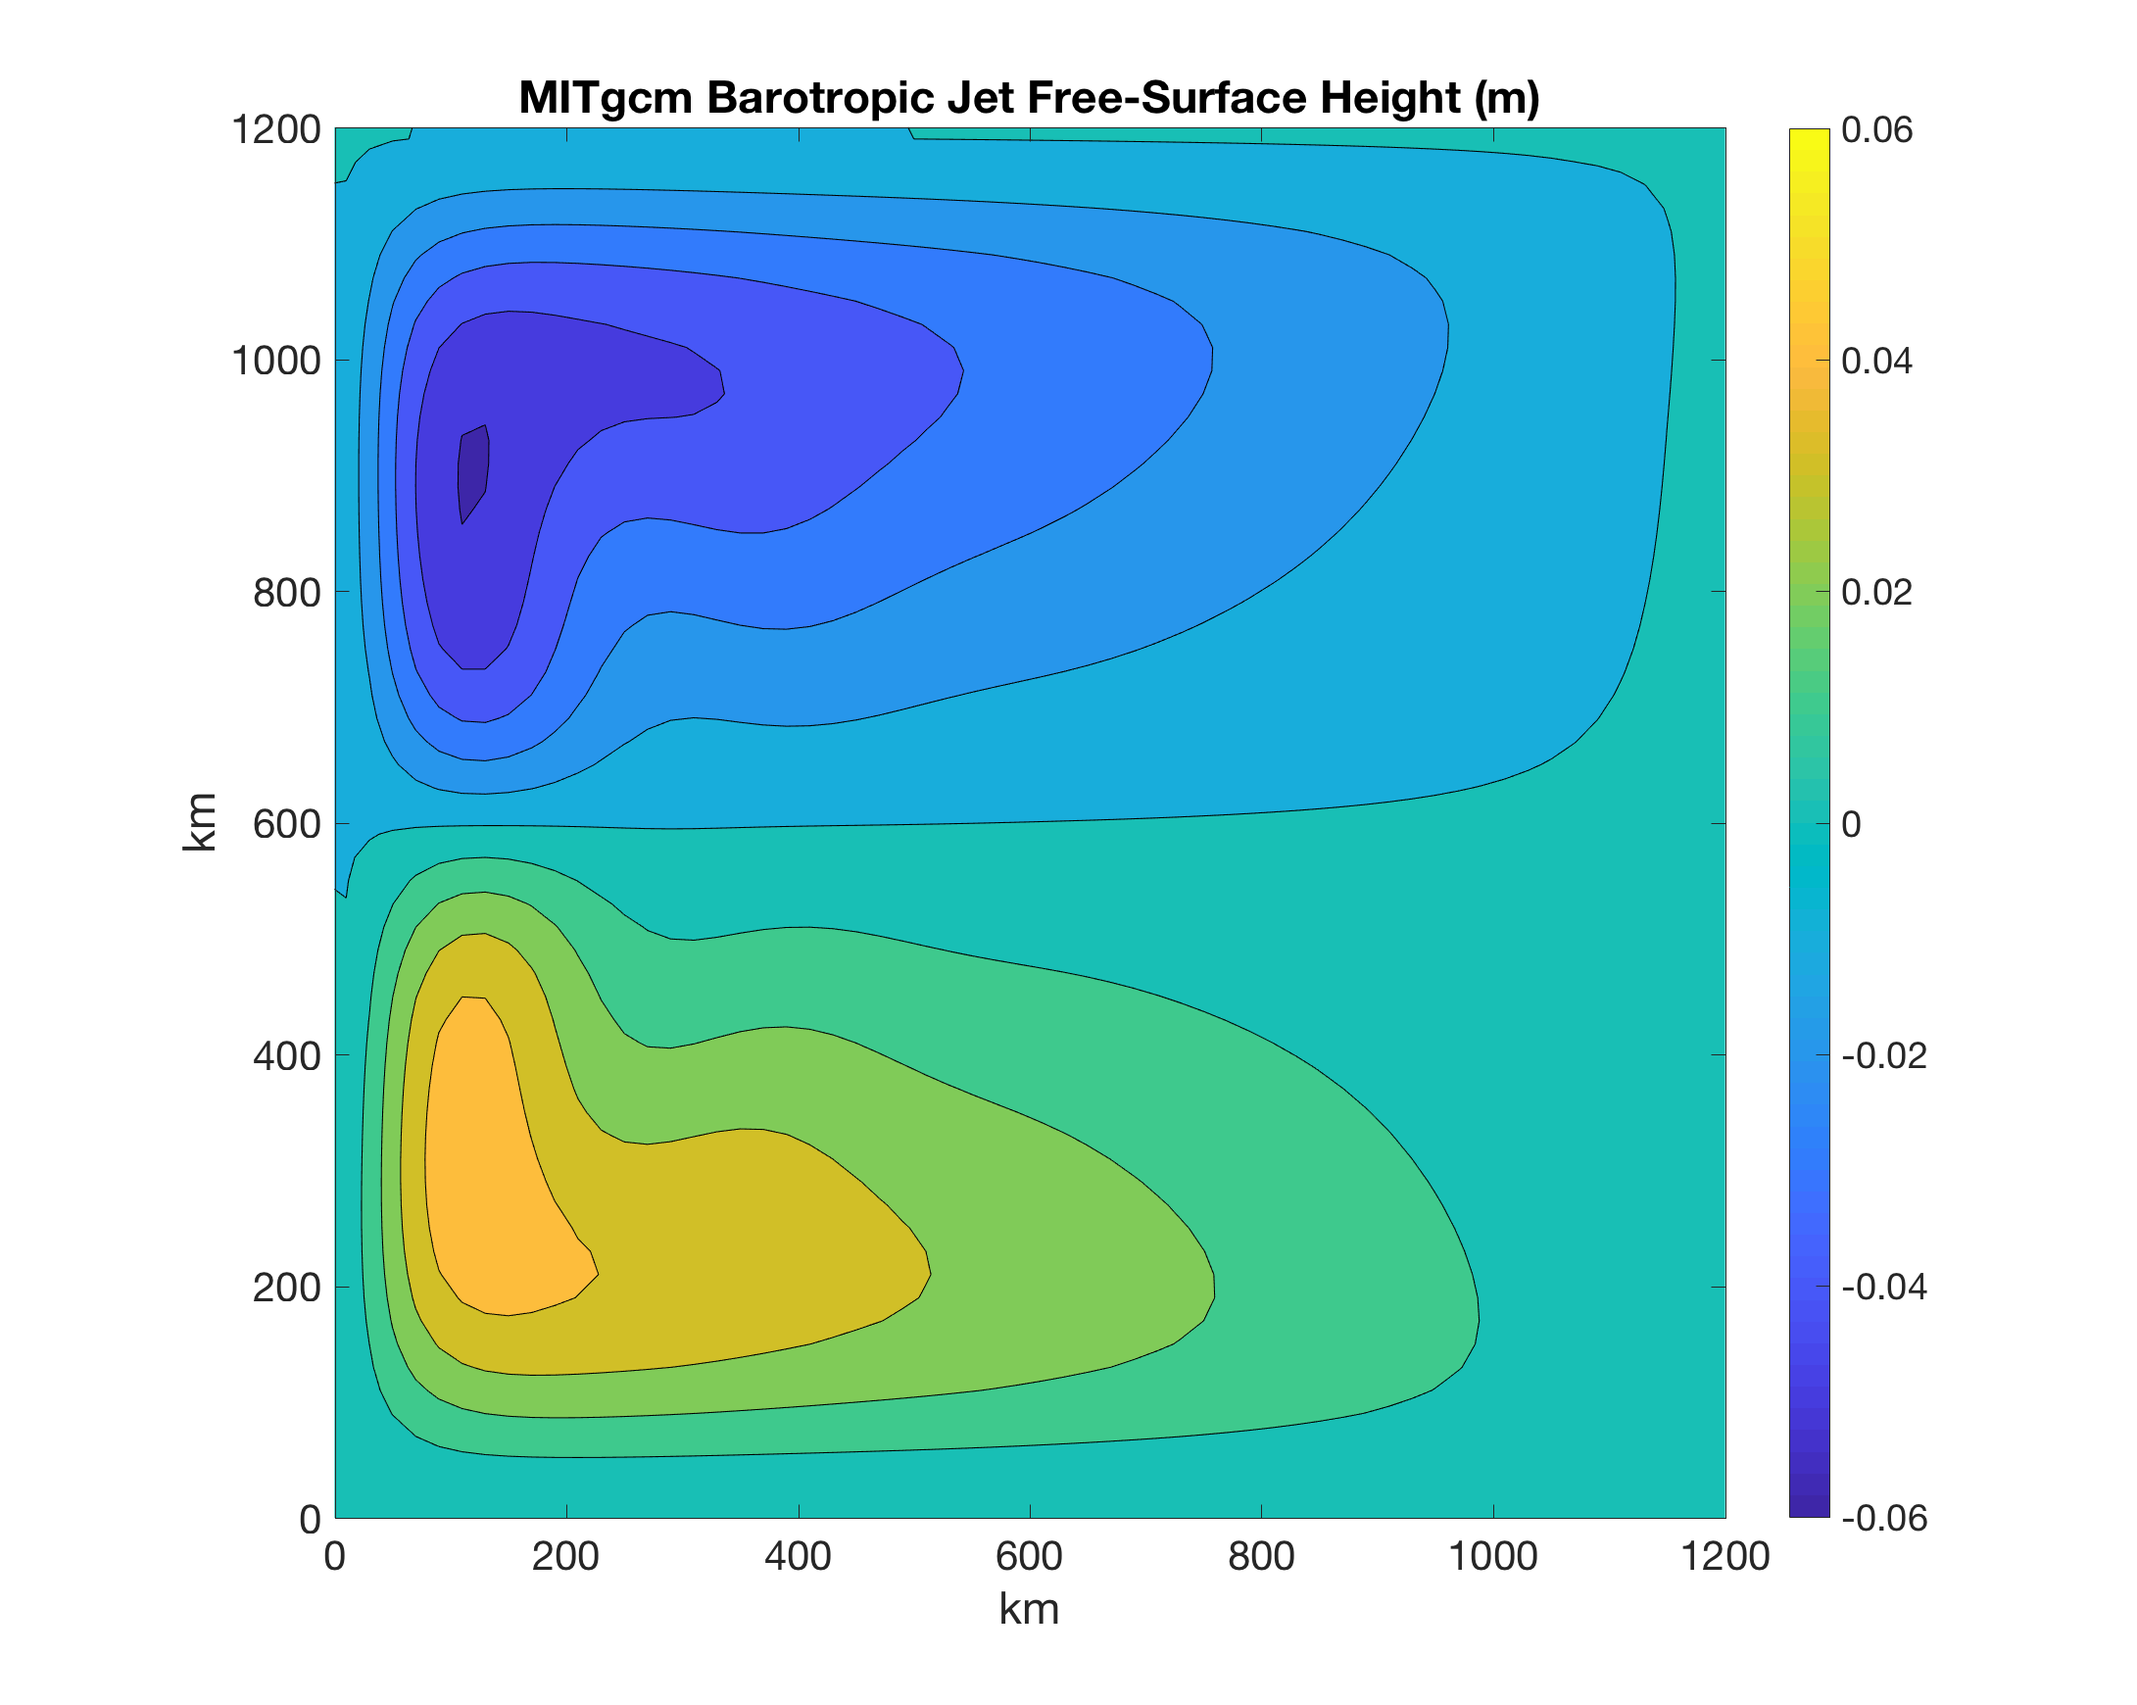
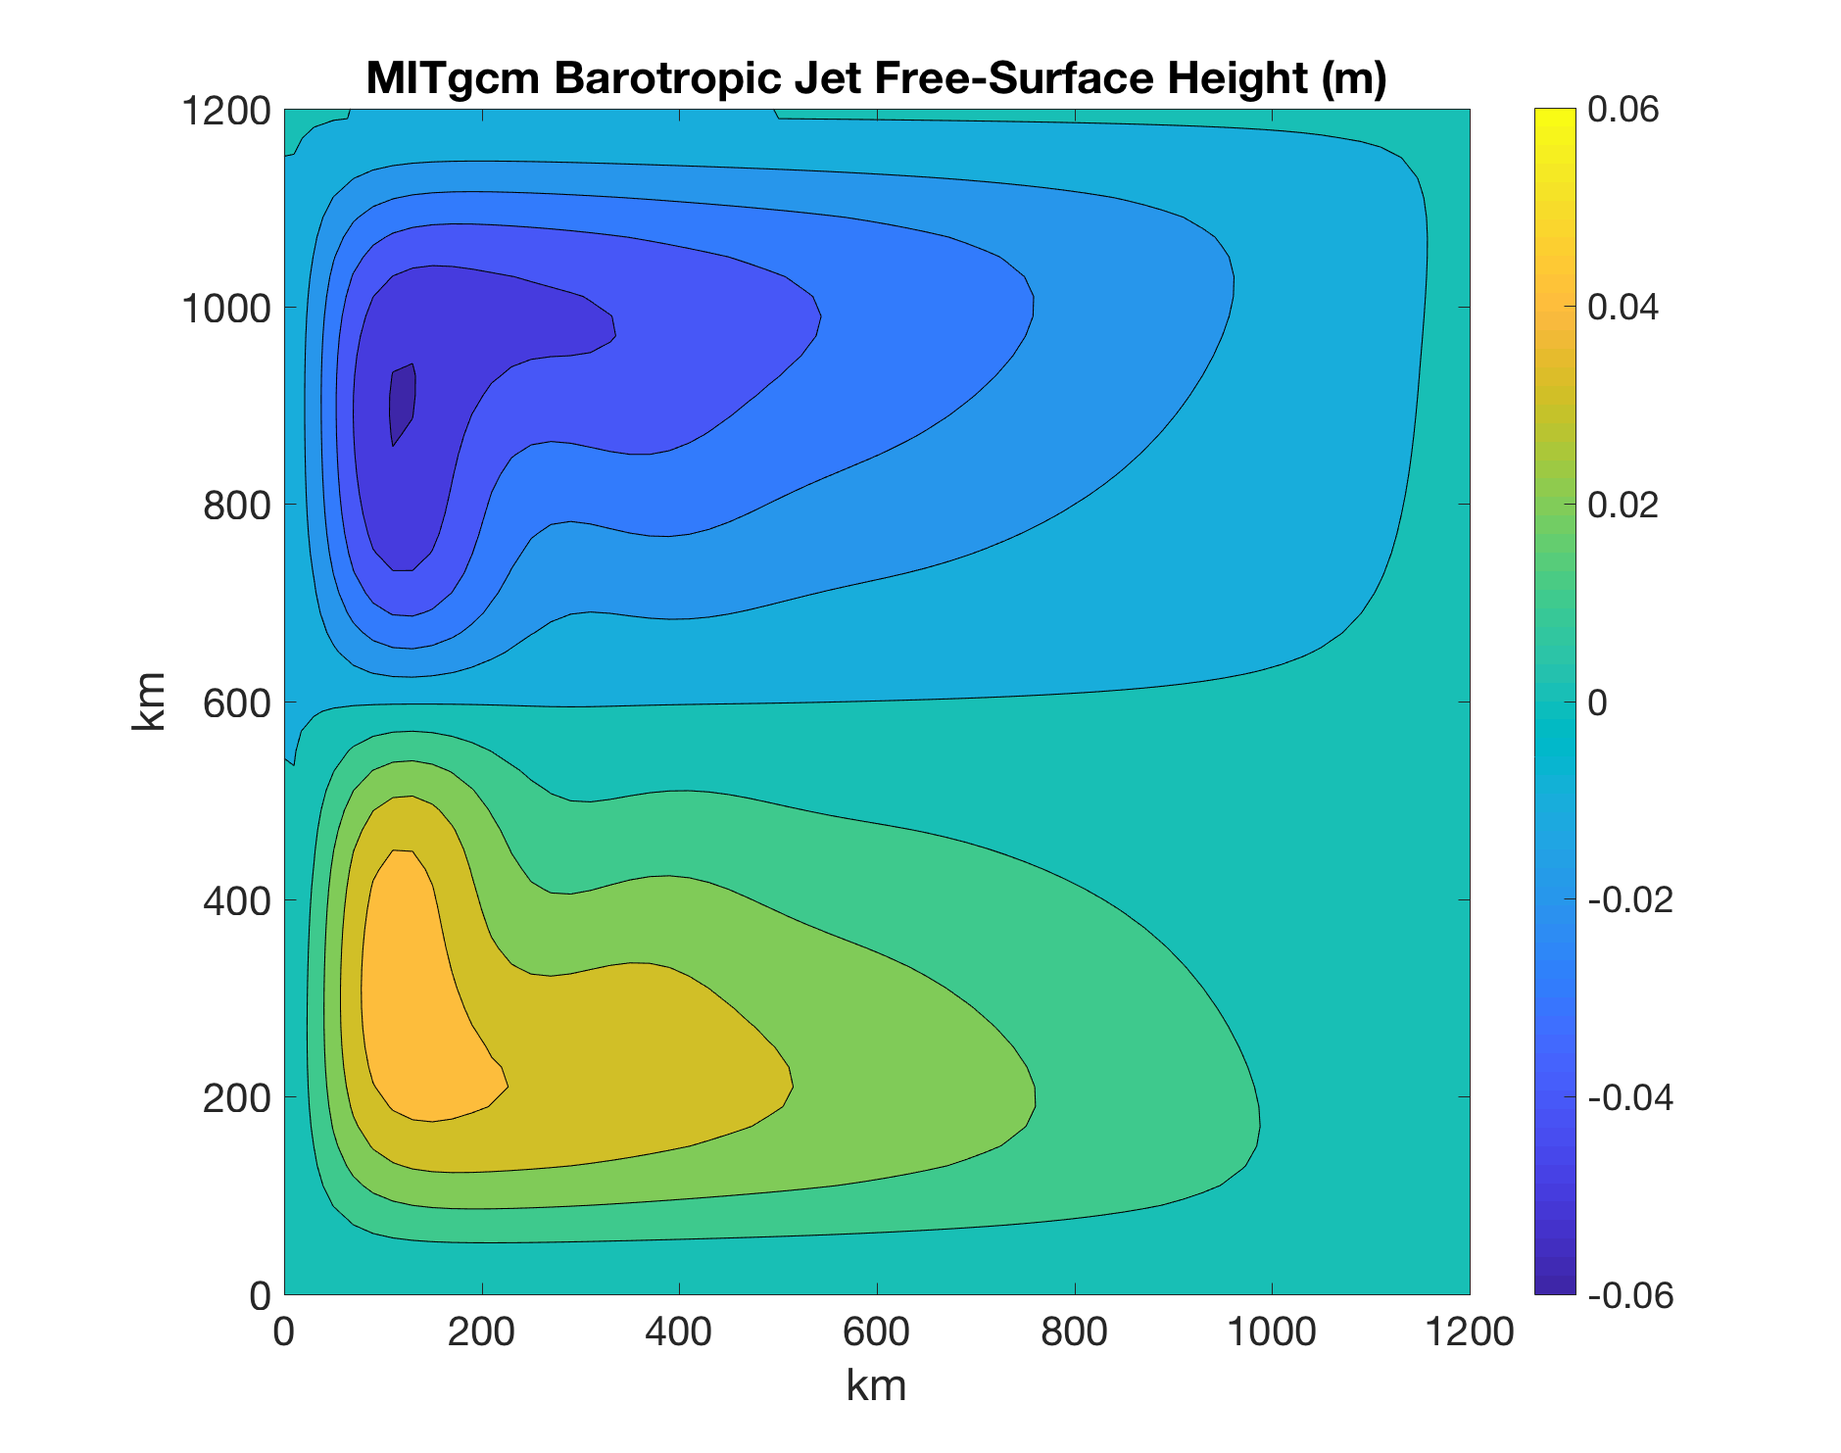
changes from @jm-c; change run length; misc. edits

diff --git a/doc/examples/examples.rst b/doc/examples/examples.rst
@@ -285,12 +285,12 @@ PARM01 - Continuous equation parameters
        :end-at: beta
        :lineno-match:
 
-- This line sets parameter :varlink:`rhonil`, a reference density which will also be used
+- This line sets parameter :varlink:`rhoNil`, a reference density which will also be used
   as :math:`rho_c` (parameter :varlink:`rhoConst`) in :eq:`baro_model_eq_u`, to 1000 kg/m\ :sup:`3`.
 
   .. literalinclude:: ../../verification/tutorial_barotropic_gyre/input/data
-       :start-at: rhonil
-       :end-at: rhonil
+       :start-at: rhoNil
+       :end-at: rhoNil
        :lineno-match:
 
 - This line sets parameter :varlink:`gBaro`, the acceleration due to gravity :math:`g` (in the free surface terms
@@ -369,17 +369,17 @@ PARM03 - Time stepping parameters
        :lineno-match:
 
 - This line sets parameter :varlink:`nTimeSteps`, the (integer) number of timesteps the model will integrate forward. Below,
-  we have set this to integrate for just 10 time steps, for MITgcm automated testing purposes (ref to testreport). To integrate the solution to near steady state,
-  uncomment the line where we set the value to 60,000 time steps. When you make this change, be sure to comment out the line that sets :varlink:`monitorFreq` (see below).
+  we have set this to integrate for just 10 time steps, for MITgcm automated testing purposes (:numref:`code_testing_protocols`). To integrate the solution to near steady state,
+  uncomment the line a few lines further down where we set the value to 77760 time steps. When you make this change, be sure to comment out the line that sets :varlink:`monitorFreq` (see below).
 
   .. literalinclude:: ../../verification/tutorial_barotropic_gyre/input/data
        :start-at: nTimeSteps=10
-       :end-at: nTimeSteps=60
+       :end-at: nTimeSteps=10
        :lineno-match:
 
 - This line sets parameter :varlink:`deltaT`, the timestep used in stepping forward the model, to 1200 seconds.
   In combination with the larger value of :varlink:`nTimeSteps` above,
-  we have effectively set the model to integrate forward for :math:`60000 \times 1200 \text{ s} = 2.28` years, long enough for the solution to approach equilibrium.
+  we have effectively set the model to integrate forward for :math:`77760  \times 1200 \text{ s} = 3.0` years (based on 360-day years), long enough for the solution to approach equilibrium.
 
   .. literalinclude:: ../../verification/tutorial_barotropic_gyre/input/data
        :start-at: deltaT
@@ -387,14 +387,14 @@ PARM03 - Time stepping parameters
        :lineno-match:
 
 - These lines control the frequency at which restart (a.k.a. pickup) files are dumped by MITgcm.
-  Here the value of :varlink:`pChkptFreq` is set to 36,000,000 seconds (=1.14 years) of model time;
+  Here the value of :varlink:`pChkptFreq` is set to 31,536,000 seconds (=1.0 years) of model time;
   this controls the frequency of “permanent” checkpoint pickup files. With permanent files,
   the model’s iteration number is part of the file name (as the filename “suffix”; see :numref:`other_output`)
   in order to save it as a labelled, permanent, pickup state.
-  The value of :varlink:`ChkptFreq` is set to 12,000,000 seconds (=0.38 years); the pickup files
+  The value of :varlink:`ChkptFreq` is set to 15,552,000 seconds (=0.5 years); the pickup files
   written at this frequency but will NOT include the iteration number in the filename,
   instead toggling between ``ckptA`` and ``ckptB`` in the filename, and thus these
-  files will be overwritten with new data every 2 :math:`\times` 12,000,000 seconds.
+  files will be overwritten with new data every 2 :math:`\times` 15,552,000 seconds.
   Temporary checkpoint files can be written more frequently without requiring additional disk space,
   for example to peruse (or re-run) the model state prior to an instability,
   or restart following a computer crash, etc.
@@ -407,20 +407,21 @@ PARM03 - Time stepping parameters
 
 - This line sets parameter :varlink:`dumpFreq`, frequency of writing model state
   snapshot diagnostics (of relevance in this setup: variables :math:`u`, :math:`v`, and :math:`\eta`).
-  Here, we opt for a snapshot of model state every 24,000,000 seconds (=0.76 years), or after every 20000 time steps of integration.
+  Here, we opt for a snapshot of model state every 15,552,000 seconds (=0.5 years), or after every 12960 time steps of integration.
 
   .. literalinclude:: ../../verification/tutorial_barotropic_gyre/input/data
        :start-at: dumpFreq
        :end-at: dumpFreq
        :lineno-match:
 
-- This line is set to dump monitor output (see ref to pkg monitor) every 1200 seconds (i.e., every time step) to standard output.
-  While this is monitor frequency is needed for MITgcm automated testing, this is much too much output for our tutorial run. Comment out this line, and monitor output
-  will default to the same frequency as :varlink:`dumpFreq`.
+- These lines are set to dump monitor output (see :numref:`pkg_monitor`) every 1200 seconds (i.e., every time step) to standard output. 
+  While this is monitor frequency is needed for MITgcm automated testing, this is much too much output for our tutorial run. Comment out this line
+  and uncomment the line where :varlink:`monitorFreq` is set to 864,000 seconds, i.e., output every 10 days.
+  Parameter :varlink:`monitorSelect` is set to 2 here to reduce output of non-applicable quantities for this simple example. 
 
   .. literalinclude:: ../../verification/tutorial_barotropic_gyre/input/data
        :start-at: monitorFreq
-       :end-at: monitorFreq
+       :end-at: monitorSelect
        :lineno-match:
 
 
@@ -527,17 +528,18 @@ was used to generate this bathymetry file.
 
 .. _baro_gyre_windx_cosy:
 
-Files ``input/windx_cosy.bin`` and ``input/windx_siny.bin``
-~~~~~~~~~~~~~~~~~~~~~~~~~~~~~~~~~~~~~~~~~~~~~~~~~~~~~~~~~~~
+File ``input/windx_cosy.bin``
+~~~~~~~~~~~~~~~~~~~~~~~~~~~~~
 
-Similar to file ``input/bathy.bin``, these files are 2D(:math:`x,y`)
+Similar to file ``input/bathy.bin``, this files is a 2D(:math:`x,y`)
 map of :math:`\tau_{x}` wind stress values, formatted in the same manner.
 The units are Nm\ :sup:`--2`. Although :math:`\tau_{x}` is only a function of :math:`y` in this experiment,
 this file must still define a complete 2D map in order
 to be compatible with the standard code for loading forcing fields 
 in MITgcm. The matlab program :filelink:`verification/tutorial_barotropic_gyre/input/gendata.m`
-was used to generate this wind stress file. File ``input/windx_cosy.bin`` is required in the standard barotropic gyre setup;
-file ``input/windx_cosy.bin`` is used in the barotropic jet variation setup.
+was used to generate this wind stress file. To run the barotropic jet variation of this tutorial example (see :numref:`baro_jet_solution`),
+you will in fact need to run this
+matlab program to generate the file ``input/windx_siny.bin``.
 
 
 
@@ -639,16 +641,16 @@ which is set up using multiple tiles), producing multiple files for each 2D grid
 **State Variable Snapshot Data**:
 
 ``Eta.0000000000.001.001.data, Eta.0000000000.001.001.meta`` - this is
-the a binary data snapshot of model dynamic variable
+a binary data snapshot of model dynamic variable
 :varlink:`etaN` (the free-surface height) and its meta file, respectively.
-Note the tile number is included in the filename, as is the iteration number ``0000000000``
-(the iteration number, i.e. the text after the variable name, is referred to as the “suffix” in
-MITgcm parlance; there are options to change this “suffix” to something other than iteration number).
+Note the tile number is included in the filename, as is the iteration number ``0000000000``, which is simply the time step
+(the iteration number, i.e., the text after the variable name, is referred to as the “suffix” in
+MITgcm parlance; there are options to change this suffix to something other than iteration number).
 In other words, this is a dump of the free-surface height from the initialized state,
 iteration 0; if you load up this data file,
 you will see it is all zeroes. More interesting is the free-surface
 height after some time steps have occurred; snapshots are written according
-to our parameter choice :varlink:`dumpFreq`, here set to 20,000.
+to our parameter choice :varlink:`dumpFreq`, here set to 15,552,000 seconds, which is every 12960 time steps.
 We will examine the model solutions in :numref:`barotropic_gyre_solution`.
 The free-surface height is a 2D(:math:`x,y`) field.
 
@@ -668,7 +670,7 @@ simulations, W is a fully prognostic model variable).
 
 In addition, the following pickup files are generated:
 
-- ``pickup.0000030000.001.001.data``, ``pickup.0000030000.001.001.meta``, etc., - written at frequency set by :varlink:`pChkptFreq`
+- ``pickup.0000026280.001.001.data``, ``pickup.0000026280.001.001.meta``, etc., - written at frequency set by :varlink:`pChkptFreq`
 - ``pickup.ckptA.001.001.data``, ``pickup.ckptA.001.001.meta``, ``pickup.ckptB.001.001.data``,
   ``pickup.ckptB.001.001.meta`` - written at frequency set by :varlink:`ChkptFreq`
 
@@ -676,7 +678,7 @@ In addition, the following pickup files are generated:
 **Other Model Output Data**: For completeness, here we list the remaining default output files produced by MITgcm (despite being not particularly informative for this simple setup).
 
 ``RhoRef.data, RhoRef.meta`` - this is a 1D(:math:`z`) array of reference density. Here we have a single level and have not specified an equation of state relation, thus
-the file simply contains our prescribed value :varlink:`rhonil`.
+the file simply contains our prescribed value :varlink:`rhoNil`.
 
 ``PHrefC.data, PHrefC.meta, PHrefF.data, PHrefF.meta`` - these are 1D(:math:`z`) arrays containing reference
 hydrostatic “pressure potential” :math:`\phi = p/\rho_c` (see :numref:`finding_the_pressure_field`),
@@ -697,10 +699,10 @@ Model Solution
 --------------
 
 
-After running the model for 60,000 time steps (2.28 years), the solution is near equilibrium.
+After running the model for 77,760 time steps (3.0 years), the solution is near equilibrium.
 This equilibrium timescale is consistent with barotropic Rossby waves
 requiring order one month to cross our model domain. The model solution of free-surface
-height :math:`\eta` (proportional to streamfunction) at :math:`t=` 2.28 years is shown in :numref:`barotropic_nl_soln`.
+height :math:`\eta` (proportional to streamfunction) at :math:`t=` 3.0 years is shown in :numref:`barotropic_nl_soln`.
 
   .. figure:: barotropic_gyre/figs/full_solution.*
       :width: 80%
@@ -708,16 +710,16 @@ height :math:`\eta` (proportional to streamfunction) at :math:`t=` 2.28 years is
       :alt: barotropic gyre full solution
       :name: barotropic_nl_soln
 
-      MITgcm solution to the barotropic gyre example after :math:`t=` 2.28 years of model integration. Free surface height is shown in meters.
+      MITgcm solution to the barotropic gyre example after :math:`t=` 3.0 years of model integration. Free surface height is shown in meters.
 
 Using matlab for example, visualizing output using the :filelink:`utils/matlab/rdmds.m` utility to load the
-binary data in ``Eta.0000060000.001.001.data`` is as simple as:
+binary data in ``Eta.0000077760.001.001.data`` is as simple as:
 
 ::
 
    addpath ../../../utils/matlab/
    XC=rdmds('XC'); YC=rdmds('YC');
-   Eta=rdmds('Eta',60000); 
+   Eta=rdmds('Eta',77760); 
    contourf(XC/1000,YC/1000,Eta,[-.04:.01:.04]); colorbar; 
    set(gca,'Clim',[-.04 .04]); set(gca,'XLim',[0 1200]); set(gca,'YLim',[0 1200])
 
@@ -727,8 +729,8 @@ or using python (you will need to copy :filelink:`utils/python/MITgcmutils/MITgc
 
    import mds
    import matplotlib.pyplot as plt
-   XC = mds.rdmds('XC’); YC = mds.rdmds('YC')
-   Eta = mds.rdmds('Eta', 6000)
+   XC = mds.rdmds('XC'); YC = mds.rdmds('YC')
+   Eta = mds.rdmds('Eta', 77760)
    plt.contourf(XC, YC, Eta[:,:]); plt.colorbar(); plt.show()
 
 
@@ -755,7 +757,7 @@ the analytical solution to the linearized equations. Success!
       :alt: barotropic gyre linearized solution
       :name: lin_anal_soln
 
-      Comparison of free surface height for the near-equilibrium MITgcm solution (:math:`t=` 2.28 years) with momentum advection switched off (left) and the analytical equilibrium solution to the linearized equation (right).
+      Comparison of free surface height for the near-equilibrium MITgcm solution (:math:`t=` 3.0 years) with momentum advection switched off (left) and the analytical equilibrium solution to the linearized equation (right).
 
 Finally, let’s examine one additional simulation where we change the cosine profile of wind stress forcing to a sine profile.
 In file :filelink:`data <verification/tutorial_barotropic_gyre/input/data>`,
